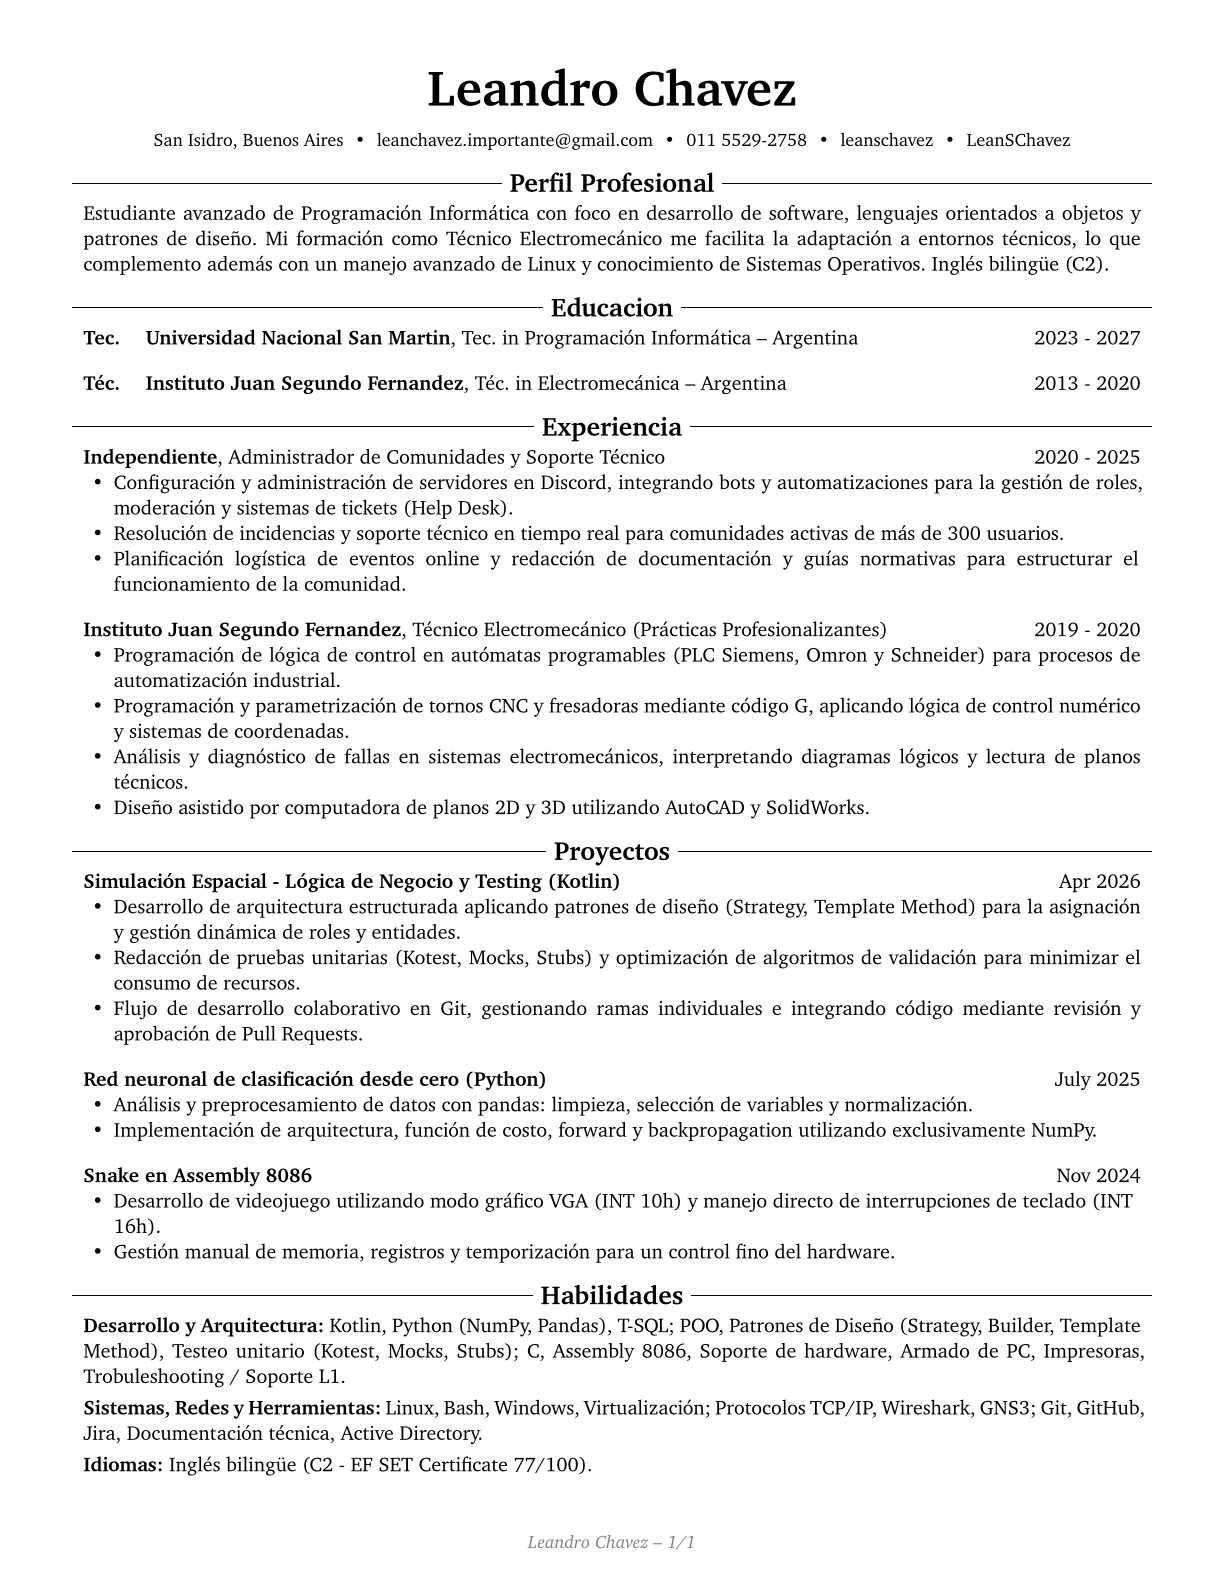
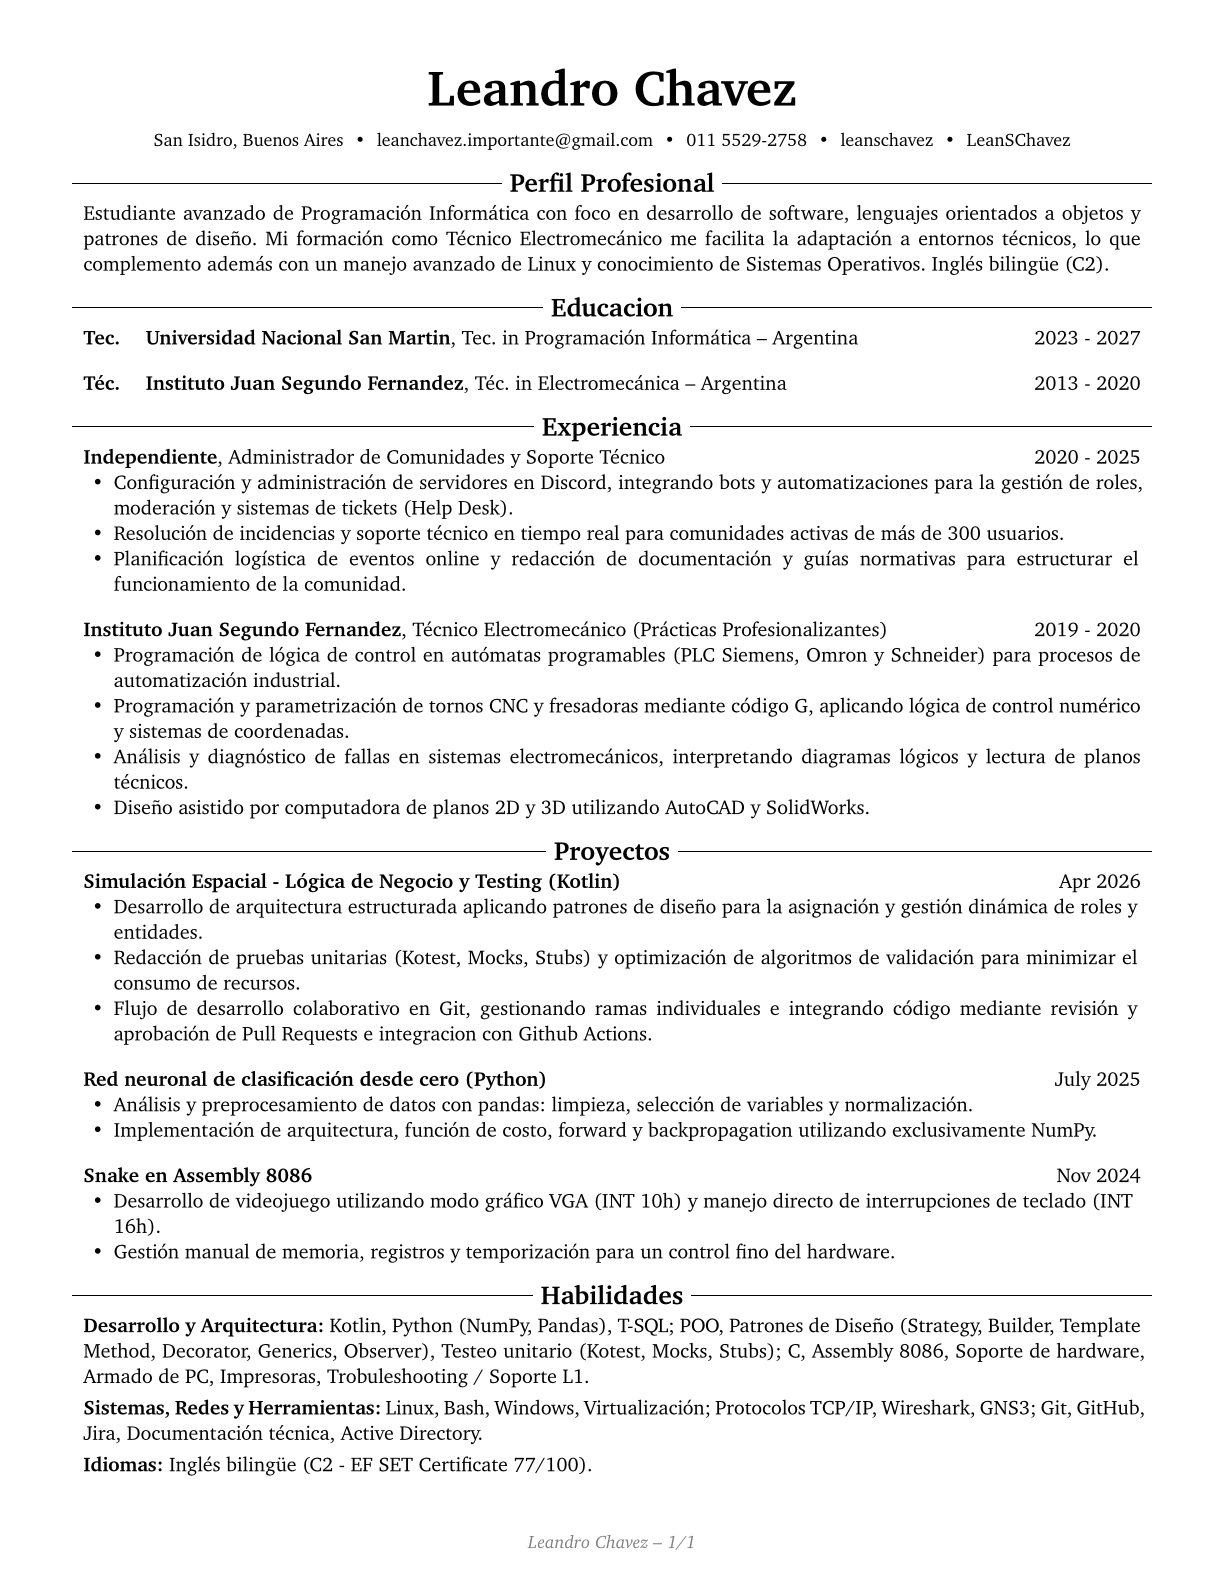
Cambio cv

Changed region(s): [[0.0931, 0.5568, 0.9314, 0.6806], [0.0621, 0.8352, 0.9314, 0.8971]]

diff --git a/rendercv_output/Leandro_Chavez_CV.html b/rendercv_output/Leandro_Chavez_CV.html
@@ -91,13 +91,13 @@
         <p>Apr 2026</p>
         <ul>
         <li>
-        <p>Desarrollo de arquitectura estructurada aplicando patrones de diseño (Strategy, Template Method) para la asignación y gestión dinámica de roles y entidades.</p>
+        <p>Desarrollo de arquitectura estructurada aplicando patrones de diseño para la asignación y gestión dinámica de roles y entidades.</p>
         </li>
         <li>
         <p>Redacción de pruebas unitarias (Kotest, Mocks, Stubs) y optimización de algoritmos de validación para minimizar el consumo de recursos.</p>
         </li>
         <li>
-        <p>Flujo de desarrollo colaborativo en Git, gestionando ramas individuales e integrando código mediante revisión y aprobación de Pull Requests.</p>
+        <p>Flujo de desarrollo colaborativo en Git, gestionando ramas individuales e integrando código mediante revisión y aprobación de Pull Requests e integracion con Github Actions.</p>
         </li>
         </ul>
         <h2><strong>Red neuronal de clasificación desde cero (Python)</strong></h2>
@@ -121,7 +121,7 @@
         </li>
         </ul>
         <h1>Habilidades</h1>
-        <p><strong>Desarrollo y Arquitectura:</strong> Kotlin, Python (NumPy, Pandas), T-SQL; POO, Patrones de Diseño (Strategy, Builder, Template Method), Testeo unitario (Kotest, Mocks, Stubs); C, Assembly 8086, Soporte de hardware, Armado de PC, Impresoras, Trobuleshooting / Soporte L1.</p>
+        <p><strong>Desarrollo y Arquitectura:</strong> Kotlin, Python (NumPy, Pandas), T-SQL; POO, Patrones de Diseño (Strategy, Builder, Template Method, Decorator, Generics, Observer), Testeo unitario (Kotest, Mocks, Stubs); C, Assembly 8086, Soporte de hardware, Armado de PC, Impresoras, Trobuleshooting / Soporte L1.</p>
         <p><strong>Sistemas, Redes y Herramientas:</strong> Linux, Bash, Windows, Virtualización; Protocolos TCP/IP, Wireshark, GNS3; Git, GitHub, Jira, Documentación técnica, Active Directory.</p>
         <p><strong>Idiomas:</strong> Inglés bilingüe (C2 - EF SET Certificate 77/100).</p>
     </article>

diff --git a/rendercv_output/Leandro_Chavez_CV.md b/rendercv_output/Leandro_Chavez_CV.md
@@ -61,11 +61,11 @@ Estudiante avanzado de Programación Informática con foco en desarrollo de soft
 
 Apr 2026
 
-- Desarrollo de arquitectura estructurada aplicando patrones de diseño (Strategy, Template Method) para la asignación y gestión dinámica de roles y entidades.
+- Desarrollo de arquitectura estructurada aplicando patrones de diseño para la asignación y gestión dinámica de roles y entidades.
 
 - Redacción de pruebas unitarias (Kotest, Mocks, Stubs) y optimización de algoritmos de validación para minimizar el consumo de recursos.
 
-- Flujo de desarrollo colaborativo en Git, gestionando ramas individuales e integrando código mediante revisión y aprobación de Pull Requests.
+- Flujo de desarrollo colaborativo en Git, gestionando ramas individuales e integrando código mediante revisión y aprobación de Pull Requests e integracion con Github Actions.
 
 
 
@@ -90,7 +90,7 @@ Nov 2024
 
 
 # Habilidades
-**Desarrollo y Arquitectura:** Kotlin, Python (NumPy, Pandas), T-SQL; POO, Patrones de Diseño (Strategy, Builder, Template Method), Testeo unitario (Kotest, Mocks, Stubs); C, Assembly 8086, Soporte de hardware, Armado de PC, Impresoras, Trobuleshooting / Soporte L1.
+**Desarrollo y Arquitectura:** Kotlin, Python (NumPy, Pandas), T-SQL; POO, Patrones de Diseño (Strategy, Builder, Template Method, Decorator, Generics, Observer), Testeo unitario (Kotest, Mocks, Stubs); C, Assembly 8086, Soporte de hardware, Armado de PC, Impresoras, Trobuleshooting / Soporte L1.
 
 **Sistemas, Redes y Herramientas:** Linux, Bash, Windows, Virtualización; Protocolos TCP/IP, Wireshark, GNS3; Git, GitHub, Jira, Documentación técnica, Active Directory.
 
